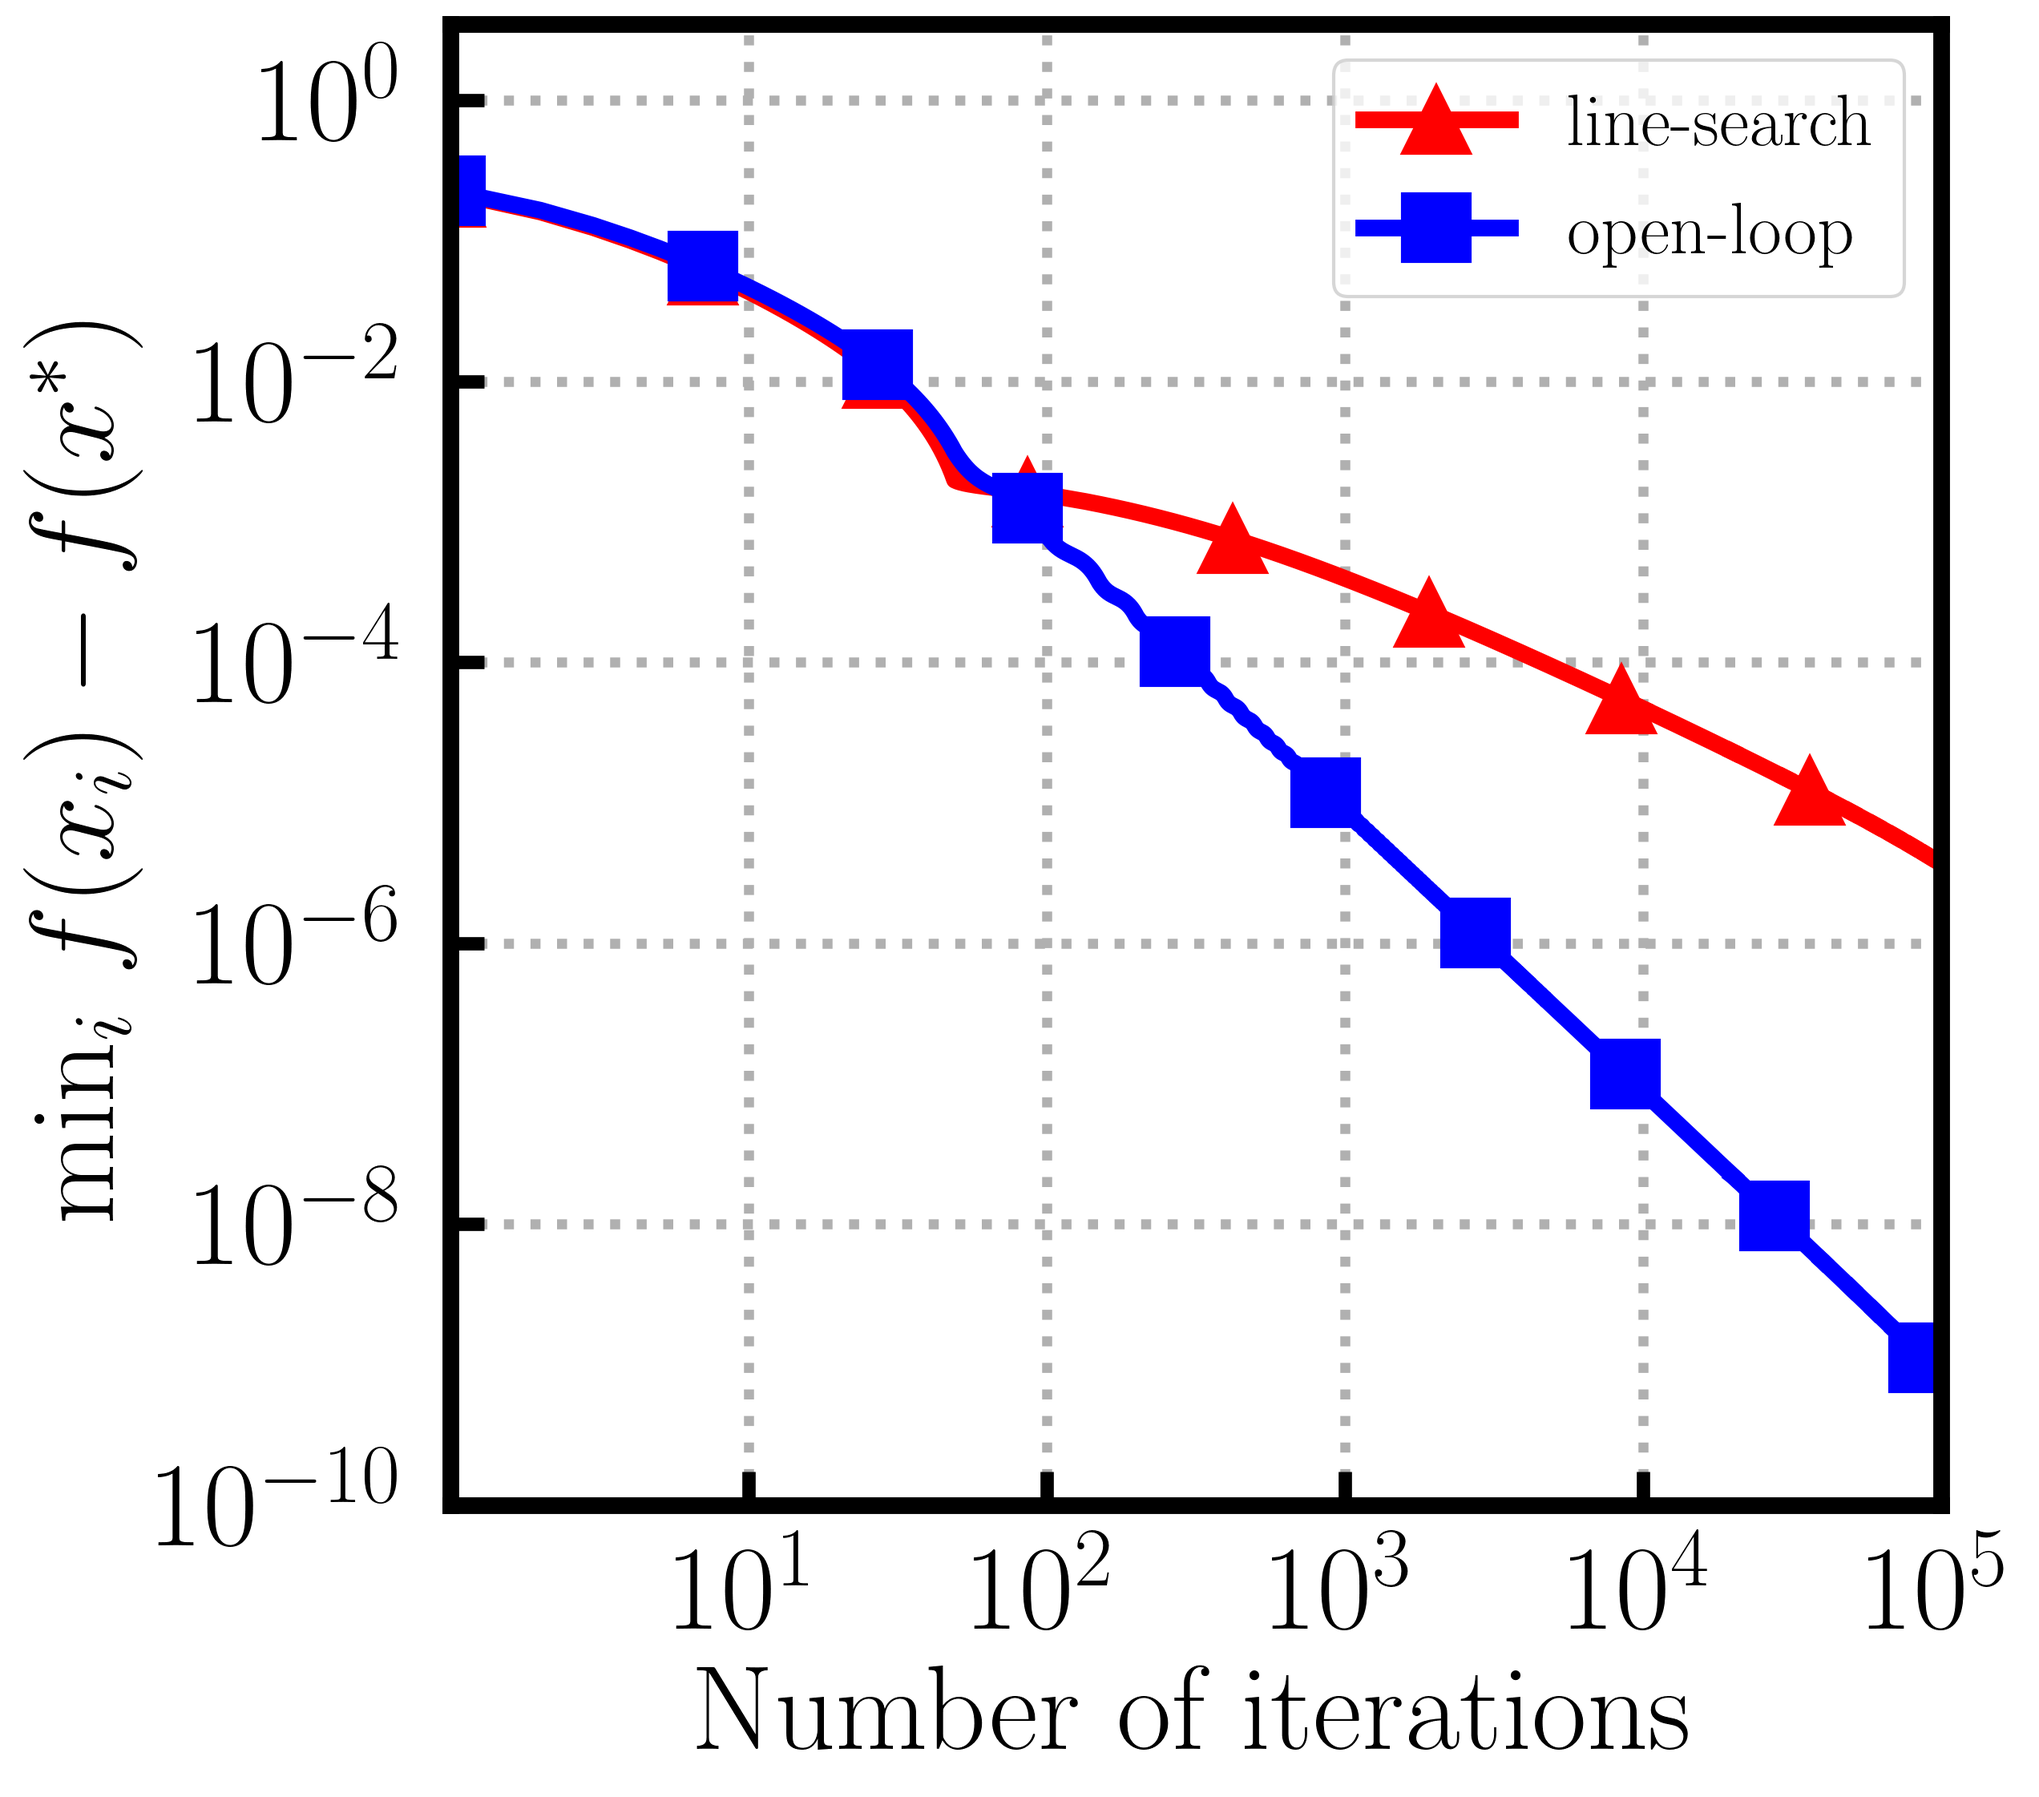
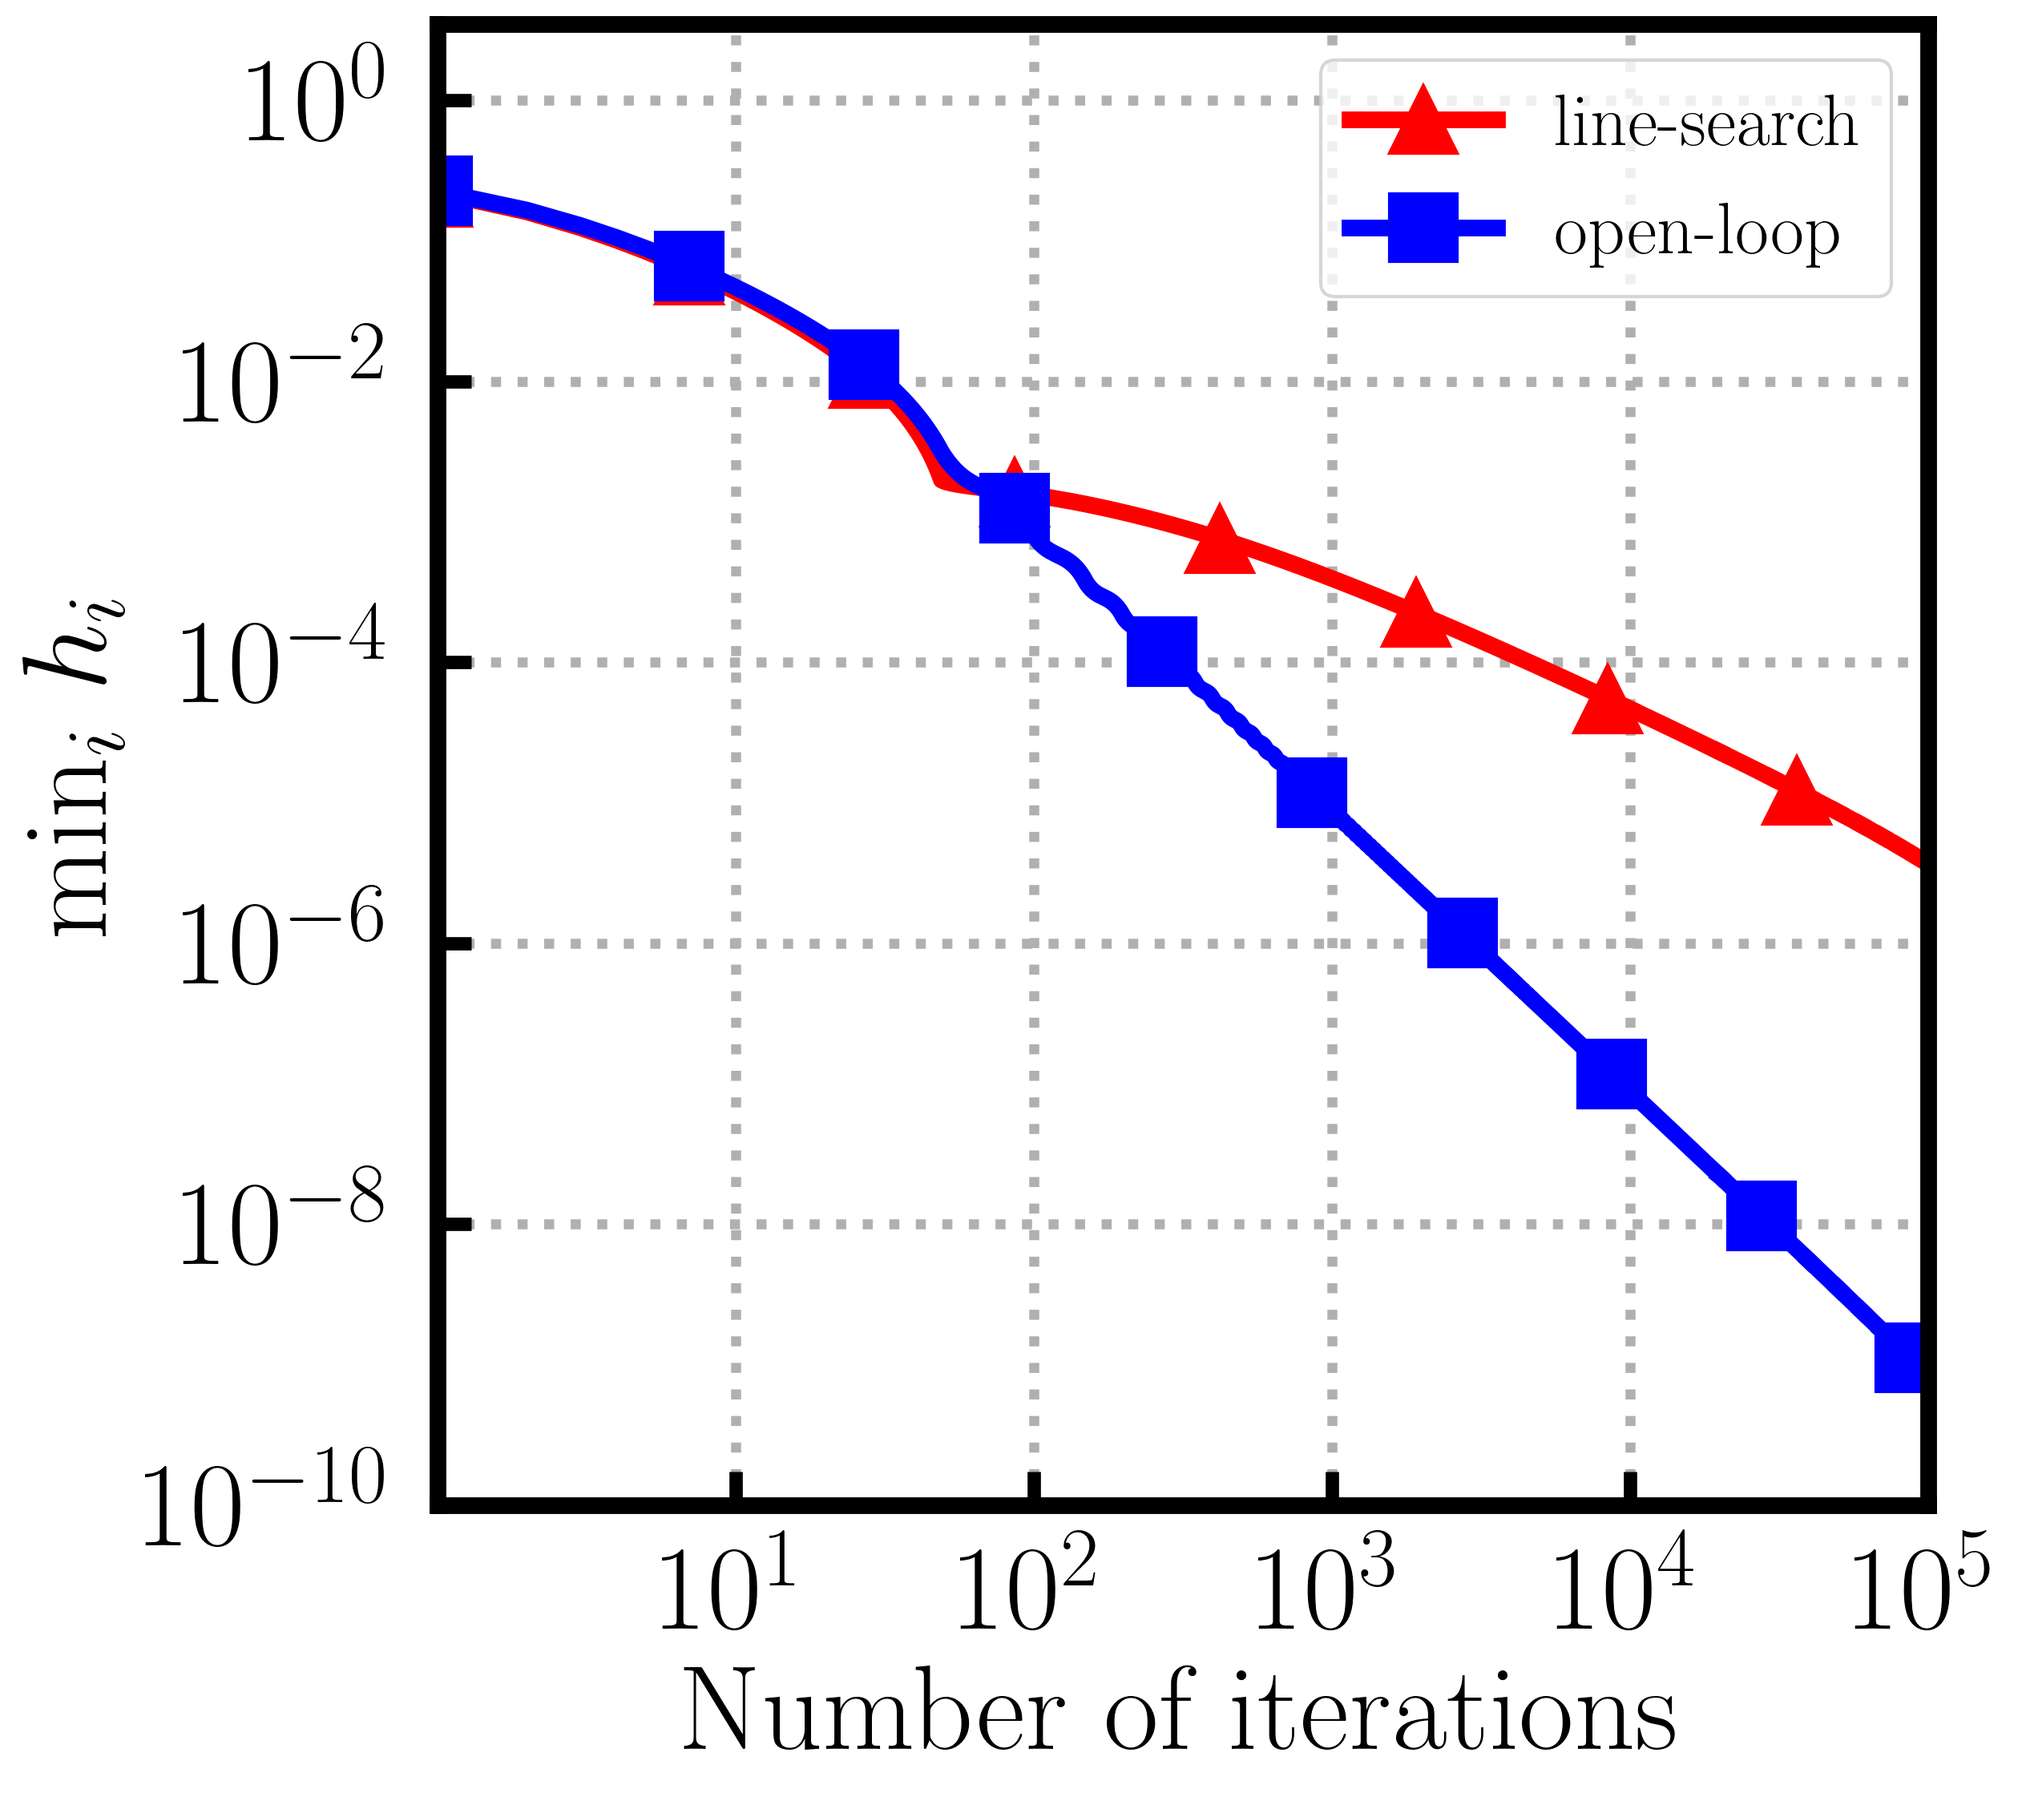
small changes

diff --git a/experiments/presentation.py b/experiments/presentation.py
@@ -42,7 +42,7 @@ for rho in rhos:
                        file_name=file_name,
                        x_lim=(1, ITERATIONS),
                        y_lim=determine_y_lims(primal_gaps),
-                       y_label=r'$\mathrm{min}_i  \ f(x_i) - f(x^*)$',
+                       y_label=r'$\mathrm{min}_i  \ h_i$',
                        directory="experiments/figures/presentation",
                        legend=legend
                        )
